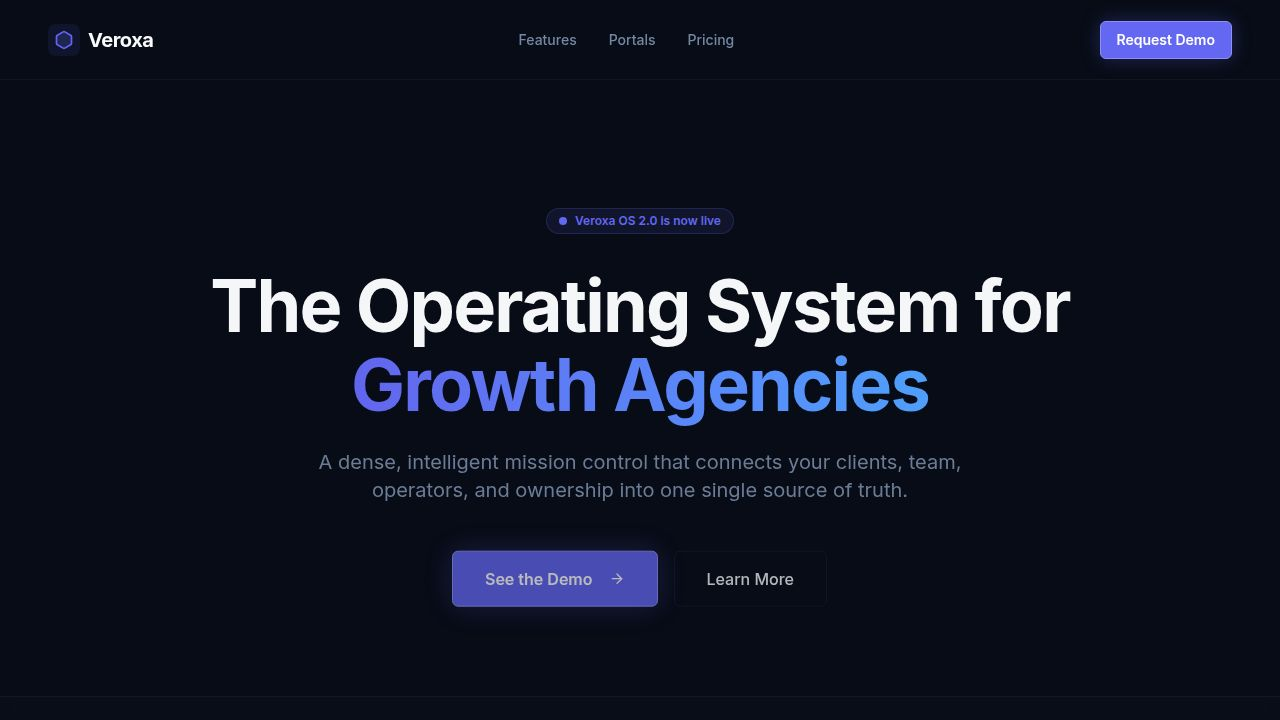
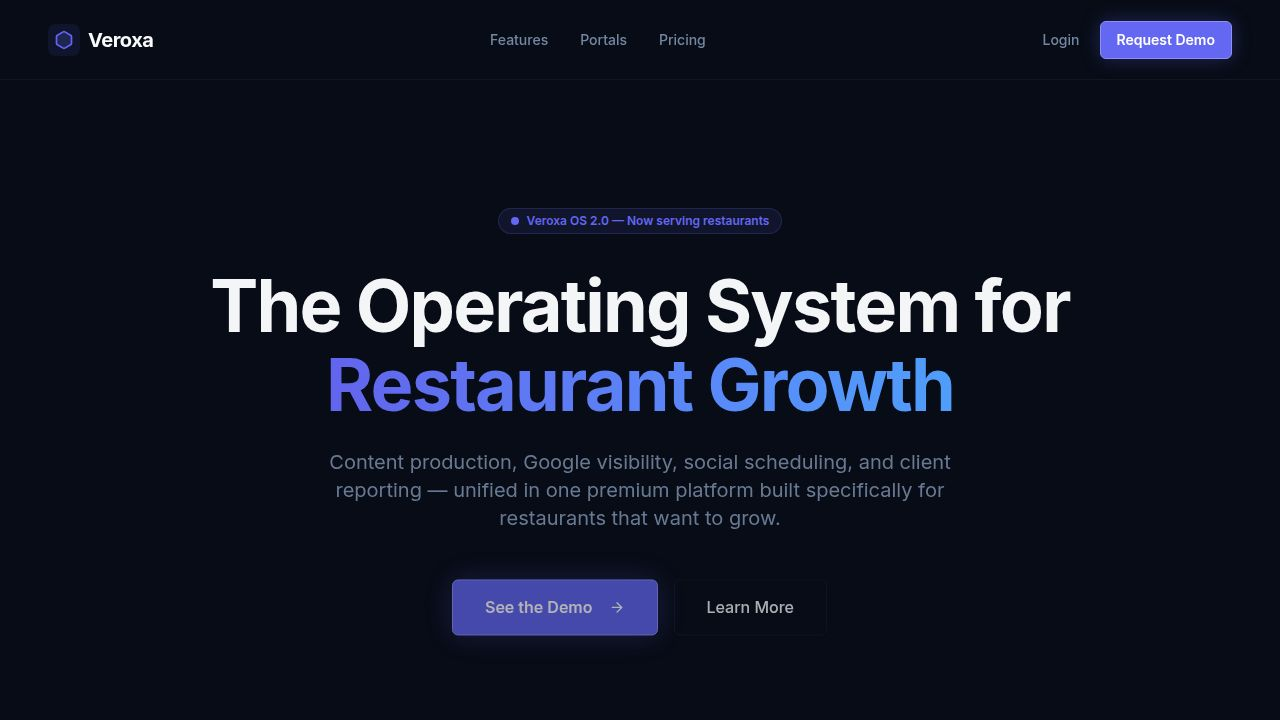
Enable real authentication mode for testing purposes
Switch AUTH_MODE from "placeholder" to "real" in src/lib/auth/authMode.ts and update BUILD_STATUS.md to reflect this change.

Replit-Commit-Author: Agent
Replit-Commit-Session-Id: b94597d3-40aa-499d-8e63-096501f311dd
Replit-Commit-Checkpoint-Type: full_checkpoint
Replit-Commit-Event-Id: 73194301-7fe5-47a4-a48f-35fa19479ab9
Replit-Commit-Screenshot-Url: https://storage.googleapis.com/screenshot-production-us-central1/fd1b0498-9906-40e3-874d-76f28fa219d1/b94597d3-40aa-499d-8e63-096501f311dd/kQSVsVW
Replit-Helium-Checkpoint-Created: true

diff --git a/artifacts/veroxa/src/lib/auth/authMode.ts b/artifacts/veroxa/src/lib/auth/authMode.ts
@@ -26,4 +26,4 @@
 
 export type AuthMode = "placeholder" | "real";
 
-export const AUTH_MODE: AuthMode = "placeholder";
+export const AUTH_MODE: AuthMode = "real";

diff --git a/artifacts/veroxa/docs/BUILD_STATUS.md b/artifacts/veroxa/docs/BUILD_STATUS.md
@@ -264,6 +264,14 @@ The real Supabase session-reading layer is now wired into the codebase but **ina
 - **No real users created.** No writes. No RLS changes. No SQL applied. **No demo routes protected.**
 - **Existing read-only Client Portal Supabase layer untouched.** Demo behavior identical.
 
+## AUTH_MODE switched to real (dev testing)
+
+`AUTH_MODE` flipped to `"real"` in `src/lib/auth/authMode.ts`.
+`useRealAuth` is now active. `/login` will attempt
+`signInWithPassword` when credentials are submitted. `/auth-status`
+shows `AUTH_MODE: real`. No redirects, no sign-out, no writes, no
+demo route changes. Single-file change only.
+
 ## Real Auth Manual Prep Pack
 
 Docs-only pass — **no code changes.** All five new files are